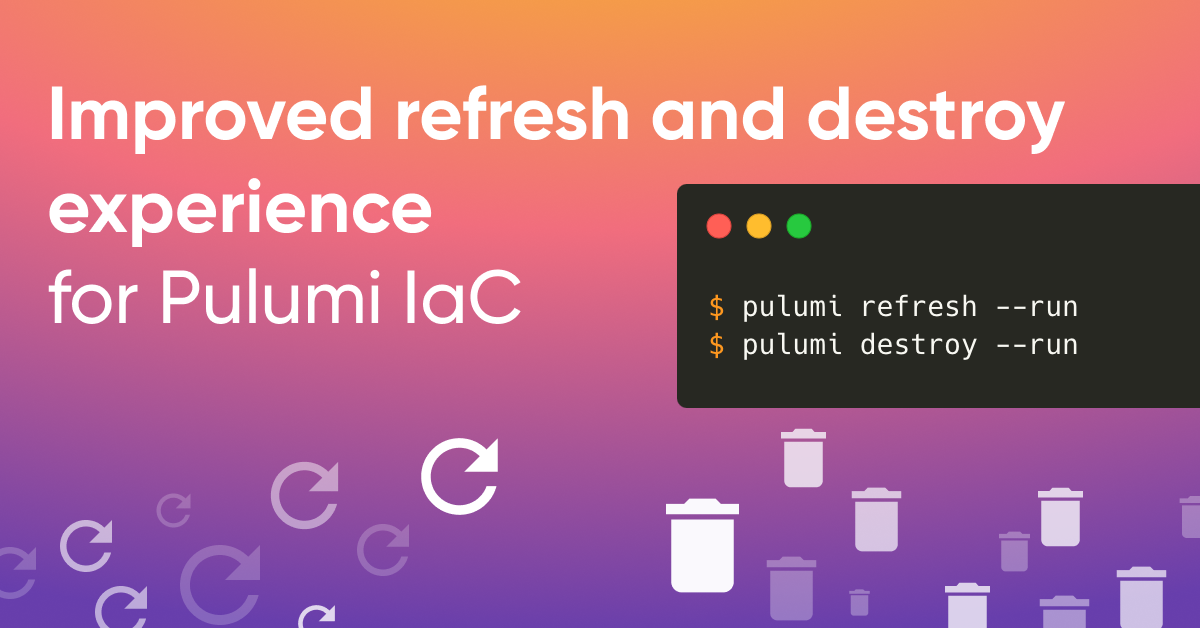
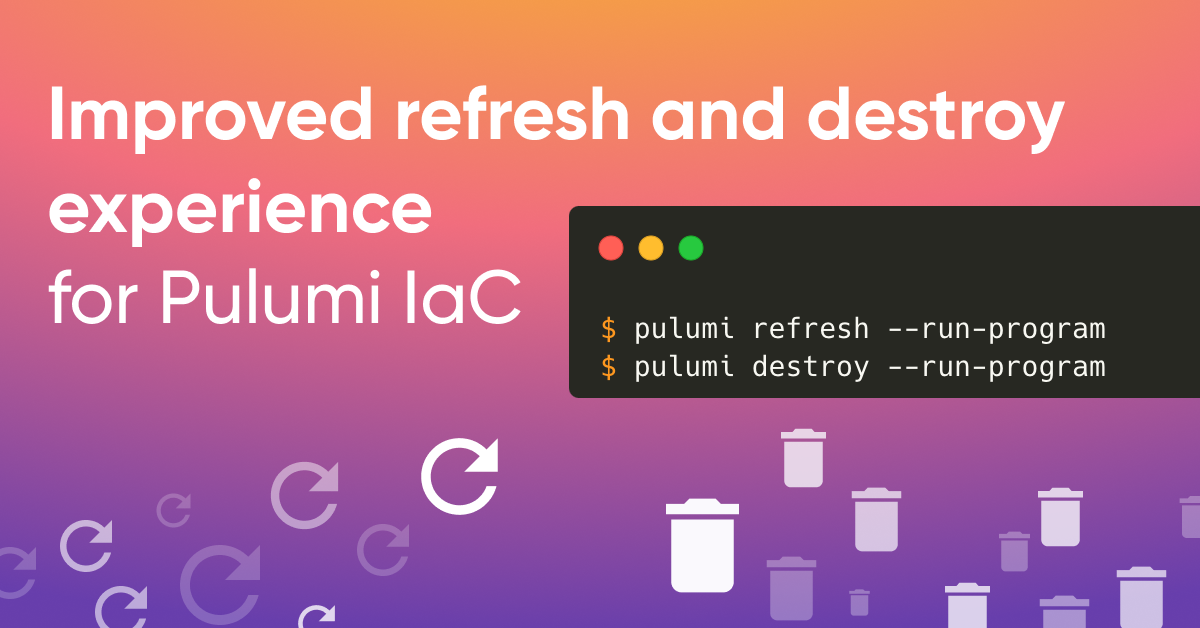
fixing based on Fraser's feedback

Changed region(s): [[0.4625, 0.2723, 1.0, 0.6656]]

diff --git a/content/blog/improved-refresh-destroy-experience/index.md b/content/blog/improved-refresh-destroy-experience/index.md
@@ -15,7 +15,7 @@ Pulumi enables teams to manage their infrastructure using the programming langua
 
 We're excited to announce an improvement to the `pulumi refresh` and `pulumi destroy` commands, a flag for `--run program`! This new feature makes Pulumi even more powerful for teams with complex infrastructure workflows.
 
-This enhancement is particularly valuable for teams working with short-lived credentials, dynamic resources, or any workflow where your code needs to run to establish the right context. Whether you're using OIDC-based authentication, or dynamically fetching credentials from a secret manager, the `--run-program` flag ensures your infrastructure operations have the context they need to succeed.
+This enhancement is particularly valuable for teams working with short-lived credentials, dynamic resources, or any workflow where your code needs to run to establish the right context. Whether you're using OIDC-based authentication, dynamically fetching credentials from a secret manager, or working with [dynamic providers](/docs/iac/concepts/resources/dynamic-providers), the `--run-program` flag ensures your infrastructure operations have the context they need to succeed.
 
 <!--more-->
 
